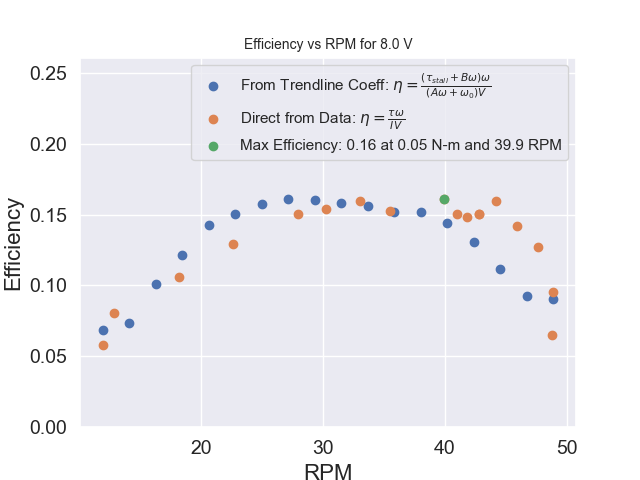
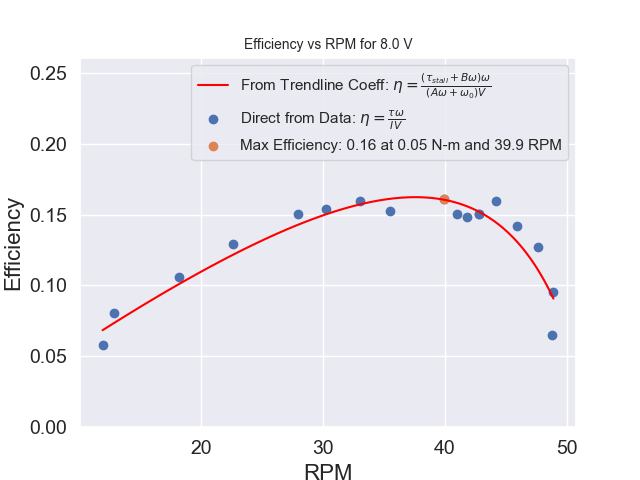
fixed eff vs rpm smoothline plots

diff --git a/DA_Plotting.py b/DA_Plotting.py
@@ -239,24 +239,29 @@ for voltage in DA.df['Applied Voltage (v)'].unique():
     print(f"RPM vs Torque Coefficients: {coeffs_RPM_vs_Torque}")
     print(f"Current vs RPM Coefficients: {coeffs_Current_vs_RPM}")
 
-    torque_at_rpm = stall_torque + coeffs_RPM_vs_Torque[0] * df_v['Tach Reading (RPM)']
-    current_at_rpm = coeffs_Current_vs_RPM[0] * df_v['Tach Reading (RPM)'] + coeffs_Current_vs_RPM[1]
-    power_output = torque_at_rpm * df_v['Tach Reading (RPM)'] * (2 * np.pi / 60)
-    power_input = current_at_rpm * voltage
-    eff = power_output / power_input
-    RPM_range = np.linspace(df_v['Tach Reading (RPM)'].min(), df_v['Tach Reading (RPM)'].max(), len(eff))
-    
-    ax.scatter(RPM_range, eff,
-               label=r"From Trendline Coeff: $\eta = \frac{(\tau_{stall} + B\omega)\omega}{(A\omega + \omega_{0})V}$")
+    # Create a smooth RPM range and calculate smooth efficiency using trendline coefficients
+    num_points = 100
+    rpm_range = np.linspace(df_v['Tach Reading (RPM)'].min(), df_v['Tach Reading (RPM)'].max(), num_points)
+    torque_smooth = stall_torque + coeffs_RPM_vs_Torque[0] * rpm_range
+    current_smooth = coeffs_Current_vs_RPM[0] * rpm_range + coeffs_Current_vs_RPM[1]
+    power_output_smooth = torque_smooth * rpm_range * (2 * np.pi / 60)
+    power_input_smooth = current_smooth * voltage
+    eff_smooth = power_output_smooth / power_input_smooth
+
+    # Plot smooth trendline for efficiency
+    ax.plot(rpm_range, eff_smooth,
+            label=r"From Trendline Coeff: $\eta = \frac{(\tau_{stall} + B\omega)\omega}{(A\omega + \omega_{0})V}$", color='red')
+    # Plot direct data for efficiency
     ax.scatter(df_v['Tach Reading (RPM)'], df_v['Efficiency'],
                label=r'Direct from Data: $\eta = \frac{\tau\omega}{I V}$')
-    
-    #add max efficiency point and its corresponding torque and RPM in the legend
+
+    # Add max efficiency point details in the legend
     max_eff_index = df_v['Efficiency'].idxmax()
     max_eff_torque = df_v['Torque (N-m)'][max_eff_index]
     max_eff_rpm = df_v['Tach Reading (RPM)'][max_eff_index]
-    ax.scatter(max_eff_rpm, df_v['Efficiency'].max(), label=f'Max Efficiency: {df_v["Efficiency"].max():.2f} at '
-                                                             f'{max_eff_torque:.2f} N-m and {max_eff_rpm} RPM')
+    ax.scatter(max_eff_rpm, df_v['Efficiency'].max(),
+               label=f'Max Efficiency: {df_v["Efficiency"].max():.2f} at {max_eff_torque:.2f} N-m and {max_eff_rpm} RPM')
+
     plt.legend()
     ax.set_ylim(0, df_v['Efficiency'].max() + 0.1)
     ax.set_xlabel('RPM')
@@ -368,18 +373,7 @@ for voltage in DA.df['Applied Voltage (v)'].unique():
           f"{df_v['Tach Reading (RPM)'][df_v['Efficiency'].idxmax()]:.1f} RPM and a torque of "
           f"{df_v['Torque (N-m)'][df_v['Efficiency'].idxmax()]:.3f} N-m")
 
-#list all outliers that were excluded
-print("The following outliers were excluded from the data for having a Z-score > 2 (meaning the value was greater than 2 standard deviations above the mean):")
-print("Outliers in the scale reading data: \n", DA.outliers_Scale)
-print("Outliers in the Current Draw data: \n", DA.outliers_Current)
-print("Outliers in the Tach Reading data: \n", DA.outliers_Tach)
 
-# export outliers to text file
-with open('Outliers.txt', 'w') as f:
-    f.write("The following outliers were excluded from the data for having a Z-score > 2 (meaning the value was greater than 2 standard deviations above the mean):\n")
-    f.write("Outliers in the scale reading data: \n" + str(DA.outliers_Scale) + "\n")
-    f.write("Outliers in the Current Draw data: \n" + str(DA.outliers_Current) + "\n")
-    f.write("Outliers in the Tach Reading data: \n" + str(DA.outliers_Tach) + "\n")
 
 # Plot the Z-scores in histgram/s
 fig, ax = plt.subplots()
@@ -392,6 +386,22 @@ ax.set_ylabel('Frequency')
 ax.legend()
 plt.title('Z-Scores for Scale Reading, Current Draw, and Tach Reading')
 plt.savefig(os.path.join(my_path, 'Plots/Z_Scores.png'))
+
+#list all outliers that were excluded
+print("The following outliers were excluded from the data for having a Z-score > 2 (meaning the value was greater than 2 standard deviations above the mean):")
+print("Outliers in the scale reading data: \n", DA.outliers_Scale)
+print("Outliers in the Current Draw data: \n", DA.outliers_Current)
+print("Outliers in the Tach Reading data: \n", DA.outliers_Tach)
+print("\n")
+print("These outliers were excluded due to them being too far from the line fit to the torque data. This is called a residual error: \n", DA.outliers_Torque)
+
+# export outliers to text file
+with open('Outliers.txt', 'w') as f:
+    f.write("The following outliers were excluded from the data for having a Z-score > 2 (meaning the value was greater than 2 standard deviations above the mean):\n")
+    f.write("Outliers in the scale reading data: \n" + str(DA.outliers_Scale) + "\n")
+    f.write("Outliers in the Current Draw data: \n" + str(DA.outliers_Current) + "\n")
+    f.write("Outliers in the Tach Reading data: \n" + str(DA.outliers_Tach) + "\n")
+    f.write("These outliers were excluded due to them being too far from the line fit to the torque data. This is called a residual error: \n" + str(DA.outliers_Torque) + "\n")
 
 #print stall torque data at each voltage
 for voltage in DA.df['Applied Voltage (v)'].unique():
